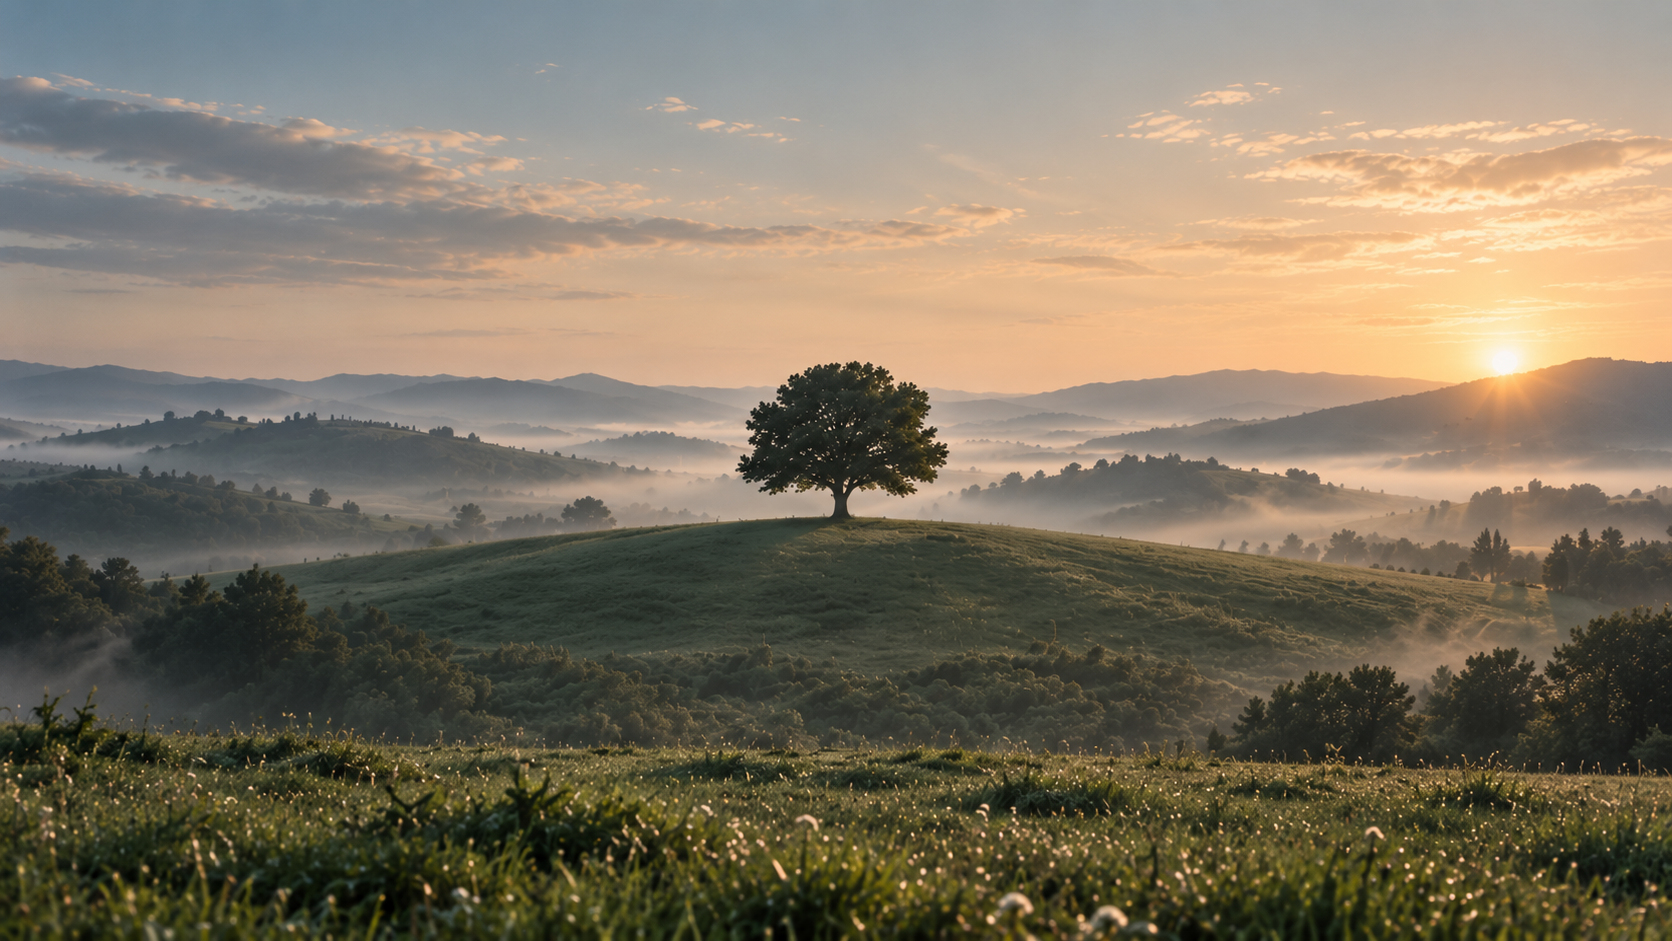
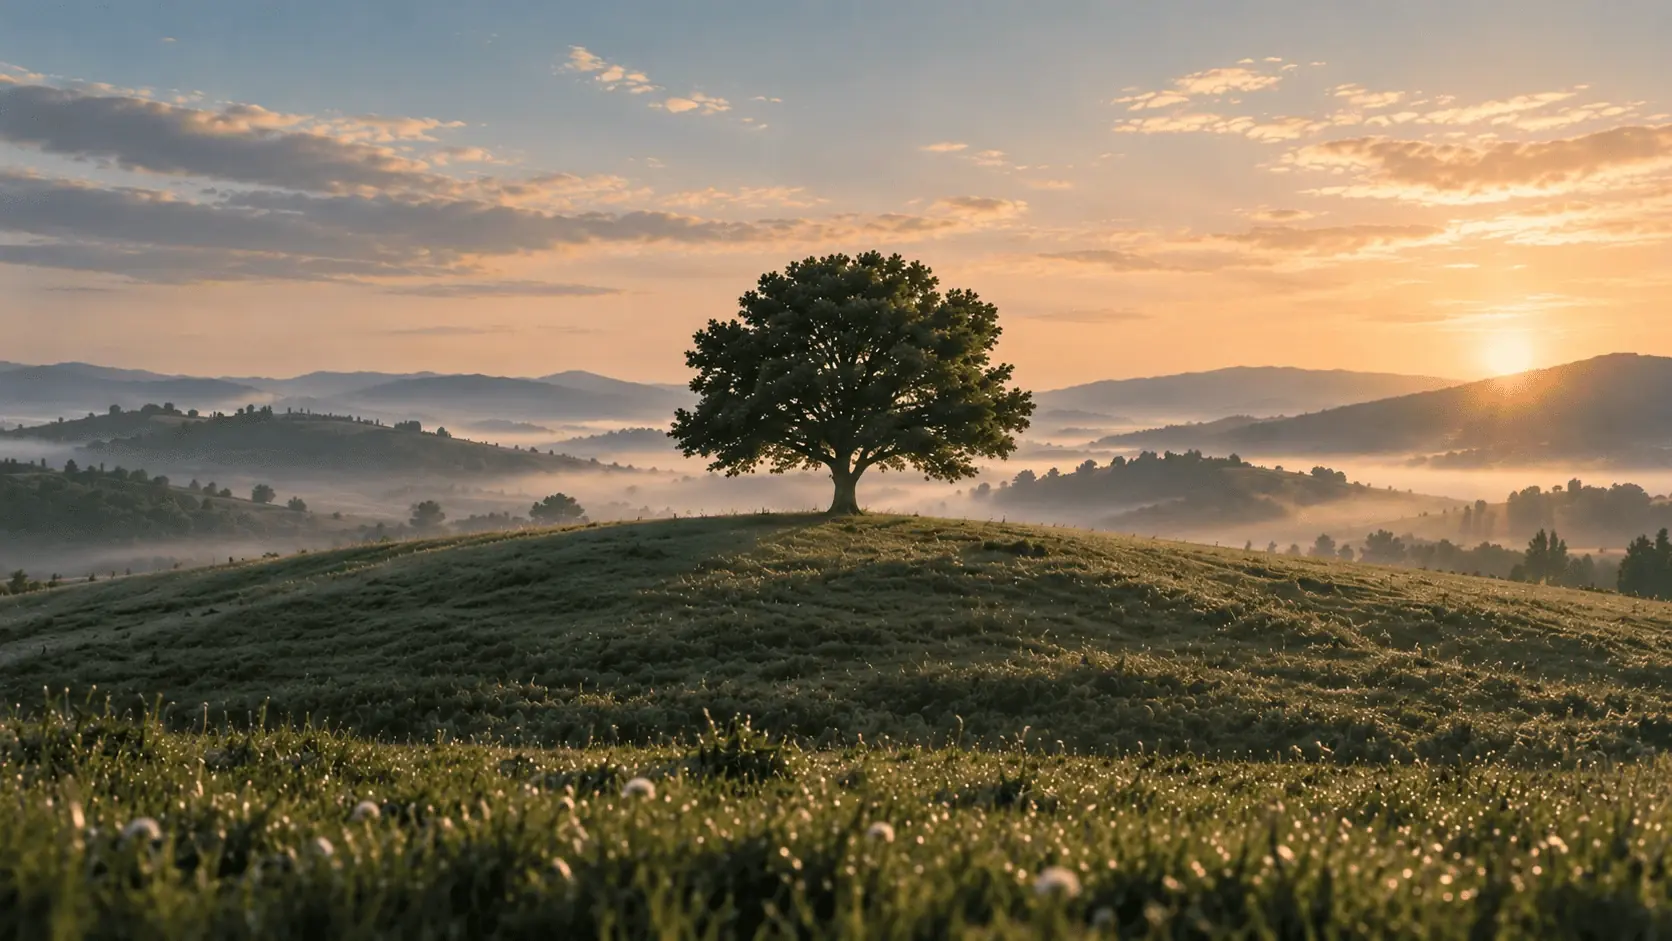
Add files via upload

diff --git a/mobile.html b/mobile.html
@@ -1,8 +1,8 @@
 <!doctype html><html lang="it"><head><meta charset="utf-8"><meta name="viewport" content="width=device-width,initial-scale=1,viewport-fit=cover"><title>Giulio Rocchi</title>
 <style>
-:root{--i:#f6f1e5;--g:#0d3933;--l:#0d393344}*{box-sizing:border-box}html{scroll-behavior:smooth}html,body{margin:0;min-height:100%;overflow-x:hidden;background:var(--i);color:var(--g);font-family:Baskerville,Palatino,Georgia,serif}button,a{font:inherit}.view{display:none}.view.on{display:block}.hero{position:relative;height:100svh;overflow:hidden}.hero video{position:absolute;inset:0;width:100%;height:100%;object-fit:cover}.hero:after{content:"";position:absolute;inset:0;background:linear-gradient(to top,#f6f1e5fa,#f6f1e5c7 18%,#f6f1e545 40%,transparent 60%);pointer-events:none}.copy{position:absolute;z-index:2;left:5%;right:5%;bottom:5vh;text-align:center}.copy h1{font-size:12vw;font-weight:400;margin:0}.sub{font-variant:small-caps;text-transform:lowercase;letter-spacing:.14em;font-size:17px}.city{margin-top:7px;font-size:17px}.actions{display:flex;gap:9px;align-items:center;margin-top:22px}.copy .actions{justify-content:center;flex-wrap:wrap}.btn{border:1px solid var(--g);border-radius:9px;padding:14px 18px;background:#f6f1e5ee;color:var(--g);font-variant:small-caps;text-transform:lowercase;letter-spacing:.08em;font-size:16px;text-decoration:none}.primary{background:var(--g);color:var(--i)}.back{width:48px;height:48px;flex:0 0 48px;border:1px solid var(--l);border-radius:9px;background:var(--i);color:var(--g);font-size:25px}.reading{position:relative;min-height:100svh;padding:13vh 0 9vh;background-size:cover;background-position:center}.reading:before{content:"";position:absolute;inset:0;background:#f6f1e538;pointer-events:none}.card{position:relative;width:90%;margin:auto;padding:26px 24px;background:#f6f1e5ed;border-radius:14px}.card h2{font-size:36px;font-weight:400;margin:0 0 18px}.card p{font-size:17px;line-height:1.58;margin:0 0 17px}.card .btn{flex:1;text-align:center}#current{display:none}#current.on{display:block}#past.off{display:none}.portrait{width:100%;aspect-ratio:4/5;object-fit:cover;border-radius:12px;margin-top:28px}#trans{display:none;position:fixed;z-index:90;inset:0;background:var(--i) url("poster-home-hq.webp") center/cover no-repeat}#trans.on{display:block}#trans video{width:100%;height:100%;object-fit:cover}#tree{display:none;position:fixed;z-index:100;top:12px;right:12px;width:50px;height:50px;padding:8px;border:1px solid var(--l);border-radius:10px;background:#f6f1e5f5}#tree.on{display:block}#tree img{width:100%;height:100%;object-fit:contain}#menu{display:none;position:fixed;z-index:101;top:70px;right:12px;padding:7px;background:#f6f1e5fa;border:1px solid var(--l);border-radius:11px}#menu.on{display:flex;flex-direction:column}#menu button{border:0;background:none;color:var(--g);padding:11px 15px;text-align:left}#booking{position:fixed;z-index:110;inset:0;overflow-y:auto;background:var(--i);transform:translateX(100%);transition:.7s}#booking.on{transform:none}.bi{width:90%;margin:auto;padding:24px 0 70px}.top{position:relative;min-height:110px;display:flex;justify-content:center}.top>img{width:50vw;max-height:90px;object-fit:contain}.homeb,.x{position:absolute;top:0;width:46px;height:46px;border:1px solid var(--l);background:var(--i);color:var(--g)}.homeb{left:0;border-radius:9px;padding:8px}.homeb img{width:100%;height:100%;object-fit:contain}.x{right:0;border-radius:50%;font-size:26px}.bi>h2{text-align:center;font-size:40px;font-weight:400;margin:8px}.intro{text-align:center;margin-bottom:32px}.loc{padding:28px 0;border-top:1px solid var(--l)}.loc h3{font-size:28px;font-weight:400;margin:0}.locBtns{display:grid;gap:9px;margin-top:18px}.map{margin-top:18px;height:250px;border-radius:14px;overflow:hidden}.map iframe,.map img{width:100%;height:100%;border:0;object-fit:cover}
+:root{--i:#f6f1e5;--g:#0d3933;--l:#0d393344}*{box-sizing:border-box}html{scroll-behavior:smooth}html,body{margin:0;min-height:100%;overflow-x:hidden;background:var(--i);color:var(--g);font-family:Baskerville,Palatino,Georgia,serif}button,a{font:inherit}.view{display:none}.view.on{display:block}.hero{position:relative;height:100svh;overflow:hidden}.hero video{position:absolute;inset:0;width:100%;height:100%;object-fit:cover}.hero:after{content:"";position:absolute;inset:0;background:linear-gradient(to top,#f6f1e5fa,#f6f1e5c7 18%,#f6f1e545 40%,transparent 60%);pointer-events:none}.copy{position:absolute;z-index:2;left:5%;right:5%;bottom:5vh;text-align:center}.copy h1{font-size:12vw;font-weight:400;margin:0}.sub{font-variant:small-caps;text-transform:lowercase;letter-spacing:.14em;font-size:17px}.city{margin-top:7px;font-size:17px}.actions{display:flex;gap:9px;align-items:center;margin-top:22px}.copy .actions{justify-content:center;flex-wrap:wrap}.btn{border:1px solid var(--g);border-radius:9px;padding:14px 18px;background:#f6f1e5ee;color:var(--g);font-variant:small-caps;text-transform:lowercase;letter-spacing:.08em;font-size:16px;text-decoration:none}.primary{background:var(--g);color:var(--i)}.back{width:48px;height:48px;flex:0 0 48px;border:1px solid var(--l);border-radius:9px;background:var(--i);color:var(--g);font-size:25px}.reading{position:relative;min-height:100svh;padding:13vh 0 9vh;background-size:cover;background-position:center}.reading:before{content:"";position:absolute;inset:0;background:#f6f1e538;pointer-events:none}.card{position:relative;width:90%;margin:auto;padding:26px 24px;background:#f6f1e5ed;border-radius:14px}.card h2{font-size:36px;font-weight:400;margin:0 0 18px}.card p{font-size:17px;line-height:1.58;margin:0 0 17px}.card .btn{flex:1;text-align:center}#current{display:none}#current.on{display:block}#past.off{display:none}.portrait{width:100%;aspect-ratio:4/5;object-fit:cover;border-radius:12px;margin-top:28px}#trans{display:none;position:fixed;z-index:90;inset:0;background:var(--i) url("poster-home-mobile.webp") center/cover no-repeat}#trans.on{display:block}#trans video{width:100%;height:100%;object-fit:cover}#tree{display:none;position:fixed;z-index:100;top:12px;right:12px;width:50px;height:50px;padding:8px;border:1px solid var(--l);border-radius:10px;background:#f6f1e5f5}#tree.on{display:block}#tree img{width:100%;height:100%;object-fit:contain}#menu{display:none;position:fixed;z-index:101;top:70px;right:12px;padding:7px;background:#f6f1e5fa;border:1px solid var(--l);border-radius:11px}#menu.on{display:flex;flex-direction:column}#menu button{border:0;background:none;color:var(--g);padding:11px 15px;text-align:left}#booking{position:fixed;z-index:110;inset:0;overflow-y:auto;background:var(--i);transform:translateX(100%);transition:.7s}#booking.on{transform:none}.bi{width:90%;margin:auto;padding:24px 0 70px}.top{position:relative;min-height:110px;display:flex;justify-content:center}.top>img{width:50vw;max-height:90px;object-fit:contain}.homeb,.x{position:absolute;top:0;width:46px;height:46px;border:1px solid var(--l);background:var(--i);color:var(--g)}.homeb{left:0;border-radius:9px;padding:8px}.homeb img{width:100%;height:100%;object-fit:contain}.x{right:0;border-radius:50%;font-size:26px}.bi>h2{text-align:center;font-size:40px;font-weight:400;margin:8px}.intro{text-align:center;margin-bottom:32px}.loc{padding:28px 0;border-top:1px solid var(--l)}.loc h3{font-size:28px;font-weight:400;margin:0}.locBtns{display:grid;gap:9px;margin-top:18px}.map{margin-top:18px;height:250px;border-radius:14px;overflow:hidden}.map iframe,.map img{width:100%;height:100%;border:0;object-fit:cover}
 </style></head><body>
-<section id="home" class="view on hero"><video muted playsinline autoplay loop preload="metadata" poster="poster-home-hq.webp" src="idle-start.mp4"></video><div class="copy"><h1>Giulio Rocchi</h1><div class="sub">Psichiatra | psicoterapeuta</div><div class="city">A Genova, Novi Ligure e online.</div><div class="actions"><button class="btn primary book">Prenota una visita</button><button class="btn" id="bioGo">Chi sono</button></div></div></section>
+<section id="home" class="view on hero"><video muted playsinline autoplay loop preload="metadata" poster="poster-home-mobile.webp" src="idle-start-mobile-ios.mp4"></video><div class="copy"><h1>Giulio Rocchi</h1><div class="sub">Psichiatra | psicoterapeuta</div><div class="city">A Genova, Novi Ligure e online.</div><div class="actions"><button class="btn primary book">Prenota una visita</button><button class="btn" id="bioGo">Chi sono</button></div></div></section>
 <section id="bio" class="view reading" style="background-image:url('poster-bio-hq.webp')"><article id="past" class="card"><h2>Chi sono</h2><p>Sono Giulio Rocchi, medico chirurgo specialista in Psichiatria, laureato e specializzato presso l’Università degli Studi di Genova.</p><p>Nel corso del mio percorso professionale ho maturato esperienza nella psichiatria ospedaliera e territoriale, nel Servizio Psichiatrico di Diagnosi e Cura e in Pronto Soccorso. Ho inoltre ricoperto incarichi di Direzione Sanitaria in servizi dedicati alla salute mentale e alle dipendenze.</p><p>Affianco all’attività clinica l’interesse per la ricerca neuroscientifica e per lo studio dei meccanismi biologici coinvolti nei disturbi mentali. Sono coautore del volume <em>A Working Model of Affectivity</em>, dedicato ai circuiti neurali dell’affettività, al temperamento e ai disturbi affettivi, e di pubblicazioni scientifiche internazionali in ambito psichiatrico e neuroscientifico.</p><div class="actions"><button class="back" id="homeBack">←</button><button class="btn primary" id="currentGo">Cosa faccio attualmente →</button></div></article><article id="current" class="card"><h2>Attualmente</h2><p>Sono Dirigente Medico presso l’ASL di Alessandria e lavoro presso il reparto di Psichiatria dell’Ospedale San Giacomo di Novi Ligure.</p><p>Parallelamente all’attività ospedaliera ricevo privatamente a Genova e Novi Ligure e svolgo consulenze psichiatriche anche online.</p><p>Nel mio lavoro pongo al centro l’ascolto e la personalizzazione del percorso di cura, integrando il rigore clinico e scientifico con l’attenzione alla dimensione simbolica e alla psicologia analitica di orientamento junghiano.</p><div class="actions"><button class="back" id="pastBack">←</button><button class="btn primary" id="approachGo">Il mio approccio →</button></div></article></section>
 <section id="approach" class="view reading" style="background-image:url('poster-approach-hq.webp')"><article class="card"><h2>Il mio approccio</h2><p>Nel mio lavoro clinico integro la valutazione psichiatrica e l’attenzione alle evidenze scientifiche con alcuni riferimenti alla psicologia analitica di Carl Gustav Jung. Questo orientamento aiuta a non considerare la persona soltanto attraverso i sintomi o la diagnosi, ma a comprenderne la storia, le relazioni, le risorse e le difficoltà nel loro insieme.</p><p>L’obiettivo è costruire un percorso di cura che favorisca una maggiore consapevolezza di sé, strumenti più efficaci per affrontare i momenti di difficoltà e un miglior equilibrio nella vita quotidiana.</p><div class="actions"><button class="back" id="currentBack">←</button><button class="btn primary book">Prenota una visita →</button></div><img class="portrait" src="foto-giulio.png" alt="Giulio Rocchi"></article></section>
 <div id="trans"><video id="tv" muted playsinline></video></div><button id="tree"><img src="logogramma-rocchi.png" alt=""></button><div id="menu"><button id="mh">Home</button><button id="mb">Prenota</button></div>
